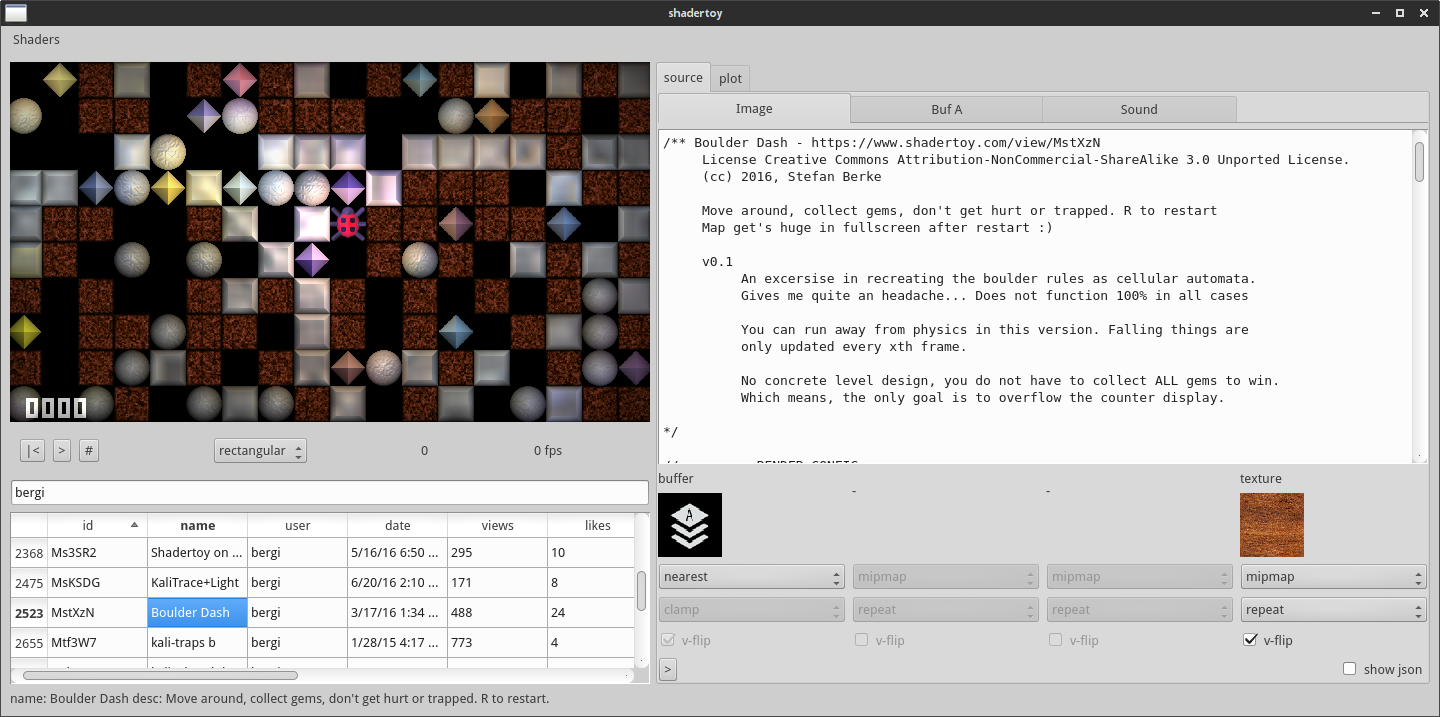
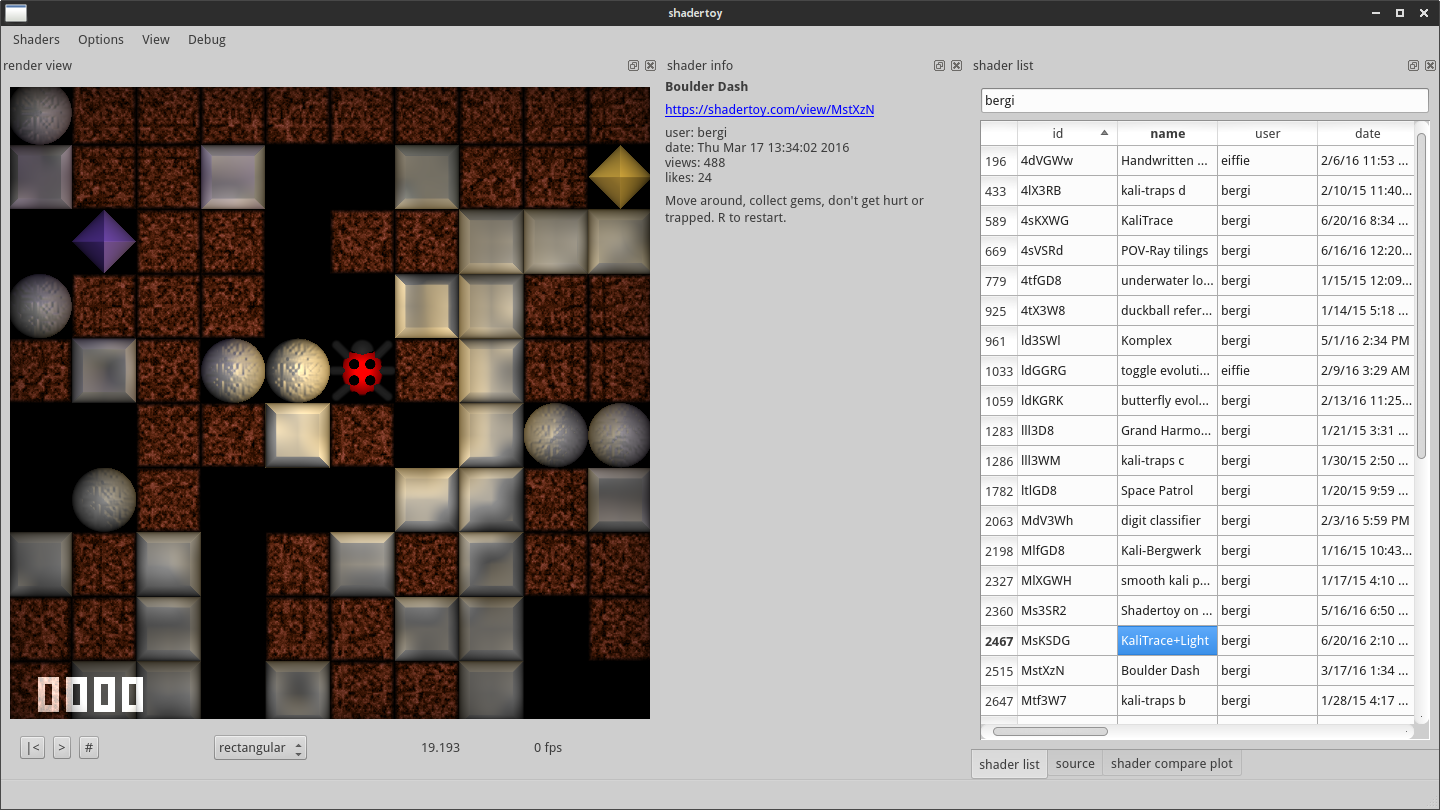
improve ShaderInfoView, update README

diff --git a/gui/ShaderInfoView.cpp b/gui/ShaderInfoView.cpp
@@ -20,6 +20,7 @@ Foundation, Inc., 51 Franklin Street, Fifth Floor, Boston, MA 02110-1301 USA
 
 #include <QLayout>
 #include <QLabel>
+#include <QDebug>
 
 #include "ShaderInfoView.h"
 #include "core/ShadertoyShader.h"
@@ -33,10 +34,14 @@ struct ShaderInfoView::Private
     void createWidgets();
     void updateWidgets();
 
+    QString toHtmlString(const QString& s) const;
+
     ShaderInfoView* p;
     ShadertoyShader shader;
 
     QLabel *labelName,
+           *labelInfo,
+           *labelWeb,
            *labelDesc;
 };
 
@@ -44,6 +49,7 @@ ShaderInfoView::ShaderInfoView(QWidget *parent)
     : QWidget   (parent)
     , p_        (new Private(this))
 {
+    setMaximumWidth(300);
     p_->createWidgets();
 }
 
@@ -64,14 +70,94 @@ void ShaderInfoView::Private::createWidgets()
     lv->setMargin(0);
 
         labelName = new QLabel(p);
+        QFont f = labelName->font();
+        f.setBold(true);
+        labelName->setFont(f);
         lv->addWidget(labelName);
 
+        labelWeb = new QLabel(p);
+        labelWeb->setOpenExternalLinks(true);
+        labelWeb->setWordWrap(true);
+        lv->addWidget(labelWeb);
+
+        labelInfo = new QLabel(p);
+        labelInfo->setWordWrap(true);
+        lv->addWidget(labelInfo);
+
         labelDesc = new QLabel(p);
+        labelDesc->setOpenExternalLinks(true);
+        labelDesc->setWordWrap(true);
         lv->addWidget(labelDesc);
+
+
+        lv->addStretch(1);
 }
 
 void ShaderInfoView::Private::updateWidgets()
 {
+    if (!shader.isValid())
+    {
+        labelName->clear();
+        labelWeb->clear();
+        labelInfo->clear();
+        labelDesc->clear();
+        return;
+    }
+
     labelName->setText( shader.info().name );
-    labelDesc->setText( shader.info().description );
+    labelWeb->setText( QString("<html><a href=\"%1\">%1</a></html>")
+                       .arg(shader.info().getUrl()) );
+    labelInfo->setText( QString("user: %1\ndate: %2\nviews: %3\nlikes: %4")
+                        .arg(shader.info().username)
+                        .arg(shader.info().date.toString())
+                        .arg(shader.info().views)
+                        .arg(shader.info().likes));
+    labelDesc->setText( toHtmlString(shader.info().description) );
+}
+
+QString ShaderInfoView::Private::toHtmlString(const QString& s1) const
+{
+    auto s = s1;
+    s.replace("\n", "<br/>");
+
+    // replace [url=src]desc[/url] with html tag
+    int idx = s.indexOf("[url=", 0);
+    while (idx != -1)
+    {
+        int idx2 = s.indexOf("[/url]", idx);
+        int idx3 = s.indexOf("]", idx);
+        if (idx2 == -1 || idx3 == -1)
+            break;
+        QString src = s.mid(idx+5, idx3-idx-5).trimmed();
+        QString desc = s.mid(idx3+1, idx2-idx3-1);
+
+        QString a = QString("<a href=\"%1\">%2</a>").arg(src).arg(desc);
+        s.replace(idx, idx2-idx+6, a);
+
+        idx = s.indexOf("[url=", idx + a.length());
+    }
+
+    // -- replace standalone weblinks --
+
+    QRegExp urls("((http|https)?://|www.)[0-9A-Za-z%./=\\?]*");
+    idx = urls.indexIn(s, 0);
+    while (idx != -1)
+    {
+        qDebug() << "HTML[" << s.mid(idx, urls.matchedLength()) << "]";
+        auto len = urls.matchedLength();
+        // check if not already part of an <a> tag
+        int idx2 = s.indexOf("</a", idx+len);
+        if (idx2 != -1 && idx2 <= idx+len+3)
+        {
+            idx = urls.indexIn(s, idx+len);
+            continue;
+        }
+
+        QString src = s.mid(idx, len);
+        QString a = QString("<a href=\"%1\">%1</a>").arg(src);
+        s.replace(idx, len, a);
+        idx = urls.indexIn(s, idx + a.length());
+    }
+
+    return "<html>" + s + "</html>";
 }

diff --git a/gui/Settings.cpp b/gui/Settings.cpp
@@ -70,15 +70,15 @@ void Settings::restoreGeometry(QWidget* w) const
             w->restoreGeometry(data);
     }
 
-
+    // in case of a QMainWindow
     if (auto win = qobject_cast<QMainWindow*>(w))
     {
         key = "WindowState/" + w->objectName();
         QByteArray data;
         if (contains(key))
             data = value(key).toByteArray();
-        //else
-        //    data = defaultMainWindowState();
+        else
+            data = p_defaultMainWindowState();
 
         if (!data.isEmpty())
             win->restoreState(data);
@@ -99,4 +99,11 @@ QVariant Settings::value(const QString& key, const QVariant& def) const
 void Settings::setValue(const QString& key, const QVariant& v)
 {
     p_set_->setValue(key, v);
+}
+
+QByteArray Settings::p_defaultMainWindowState()
+{
+    return QByteArray::fromPercentEncoding(
+                "%00%00%00%FF%00%00%00%00%FD%00%00%00%01%00%00%00%02%00%00%05%9E%00%00%02%D6%FC%01%00%00%00%05%FB%00%00%00%18%00R%00e%00n%00d%00e%00r%00W%00i%00d%00g%00e%00t%01%00%00%00%00%00%00%02%92%00%00%02%92%00%FF%FF%FF%FB%00%00%00%10%00I%00n%00f%00o%00V%00i%00e%00w%01%00%00%02%98%00%00%01%2C%00%00%00%8B%00%00%01%2C%FC%00%00%03%CA%00%00%01%D4%00%00%01F%00%FF%FF%FF%FA%00%00%00%00%02%00%00%00%03%FB%00%00%00%14%00S%00h%00a%00d%00e%00r%00L%00i%00s%00t%01%00%00%00%00%FF%FF%FF%FF%00%00%00%9D%00%FF%FF%FF%FB%00%00%00%10%00P%00a%00s%00s%00V%00i%00e%00w%01%00%00%00%00%FF%FF%FF%FF%00%00%017%00%FF%FF%FF%FB%00%00%00%10%00P%00l%00o%00t%00V%00i%00e%00w%01%00%00%00%00%FF%FF%FF%FF%00%00%00%5B%00%FF%FF%FF%FC%00%00%01F%00%00%02%C3%00%00%00%00%00%FF%FF%FF%FA%FF%FF%FF%FF%02%00%00%00%00%FC%00%00%04X%00%00%01F%00%00%00%00%00%FF%FF%FF%FA%FF%FF%FF%FF%02%00%00%00%00%00%00%05%9E%00%00%00%00%00%00%00%04%00%00%00%04%00%00%00%08%00%00%00%08%FC%00%00%00%00"
+                );
 }

diff --git a/gui/MainWindow.cpp b/gui/MainWindow.cpp
@@ -224,6 +224,11 @@ void MainWindow::Private::createMenu()
         shaderList->setEnableThumbnails(e);
     });
 
+
+    // ########## VIEW ############
+    viewMenu = win->menuBar()->addMenu(tr("View"));
+
+
     // ############ DEBUG ##############
 #ifndef NDEBUG
     menu = win->menuBar()->addMenu(tr("Debug"));
@@ -248,10 +253,15 @@ void MainWindow::Private::createMenu()
             qDebug() << (img.isNull() ? "FAILED" : "ok");
         }
     });
-#endif
 
-    // ########## VIEW ############
-    viewMenu = win->menuBar()->addMenu(tr("View"));
+    a = menu->addAction(tr("dump window state"));
+    connect(a, &QAction::triggered, [=]()
+    {
+        QByteArray a = win->saveState();
+        qDebug() << a.toPercentEncoding();
+    });
+
+#endif
 
 }
 

diff --git a/core/ShadertoyShader.cpp b/core/ShadertoyShader.cpp
@@ -15,6 +15,10 @@
 #include "log.h"
 
 
+QString ShadertoyShaderInfo::getUrl() const
+{
+    return QString("https://shadertoy.com/view/%1").arg(id);
+}
 
 
 ShadertoyShader::ShadertoyShader(const QString& id)

diff --git a/core/ShadertoyShader.h b/core/ShadertoyShader.h
@@ -152,6 +152,9 @@ struct ShadertoyShaderInfo
          usesCamera,
          usesMicrophone,
          usesKeyboard;
+
+    /** Returns the shadertoy.com url */
+    QString getUrl() const;
 };
 
 

diff --git a/gui/Settings.h b/gui/Settings.h
@@ -38,6 +38,8 @@ public:
     void storeGeometry(const QWidget*);
 
 private:
+    static QByteArray p_defaultMainWindowState();
+
     QSettings* p_set_;
 };
 

diff --git a/README.md b/README.md
@@ -16,7 +16,7 @@ There is a ShaderListModel and a ShaderSortModel to display shaders in a QTableV
 
 You can display and run shaders similiar to the web interface. Also it's possible to edit the code and change some texture input properties. But saving is not supported yet.
 
-It uses QOpenGLFunctions and all that stuff to render shaders either onto a QWidget or offscreen into a QImage. I don't like the QOpenGL* wrappers because they tend to crash the program more often than my own opengl code normally does. This should really be refactured!
+It uses QOpenGLFunctions and all that stuff to render shaders either onto a QWidget or offscreen into a QImage. I don't like the QOpenGL* wrappers because they tend to crash the program more often than my own opengl code normally does. This should really be refactured! Apart from that, the screen refresh is not tightly 60 fps and blocks the GUI somewhat. Maybe i'll try Qt's new 3D-API at some point..
 
 ### Compatibility
 
@@ -24,7 +24,7 @@ On Sunday, 9th Oct. 2016, there were 3771 programs in the public-API ;-)
 
 Of these, 8 shaders either segfault somewhere in QOpenGLShaderProgram::link(), or the first occurence of glClear() blocks forever. ??
 
-334 shaders do not compile. This is probably more than on my regular Ubuntu14/QuadroK1000M/Firefox setup.
+334 shaders do not compile. This is probably more than on my regular Ubuntu14/QuadroK1000M/Firefox setup. Many shaders that do not compile use the `cond ? a += x : b += x` trick which seems to work in WebGL but fails in non-WebGL.
 
 ### List of supported things
 
